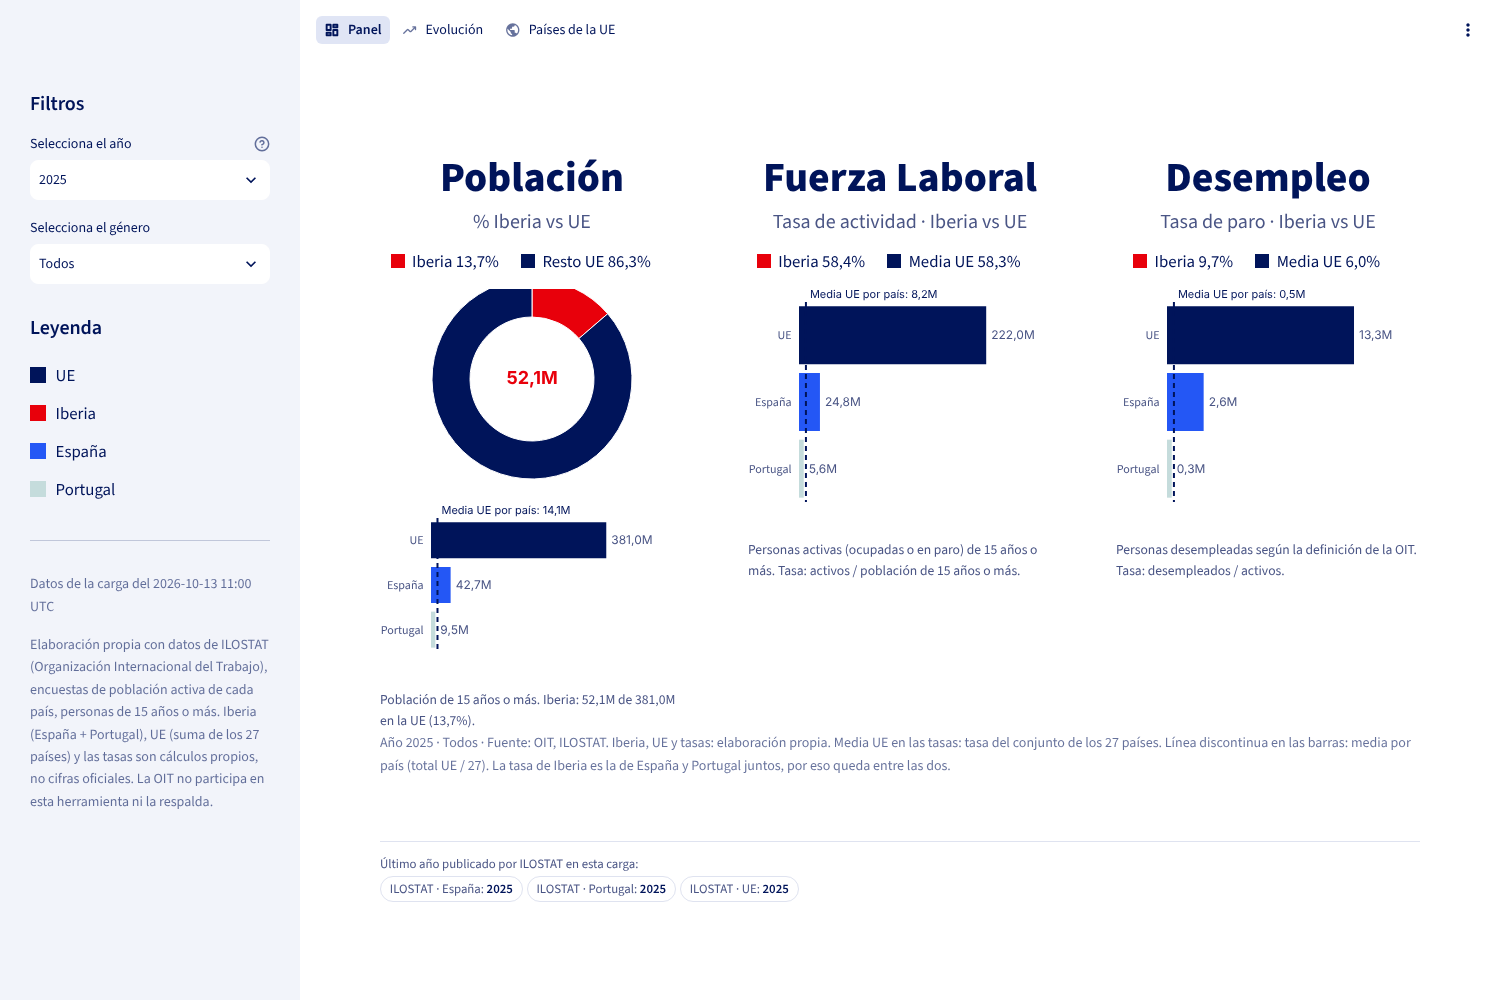
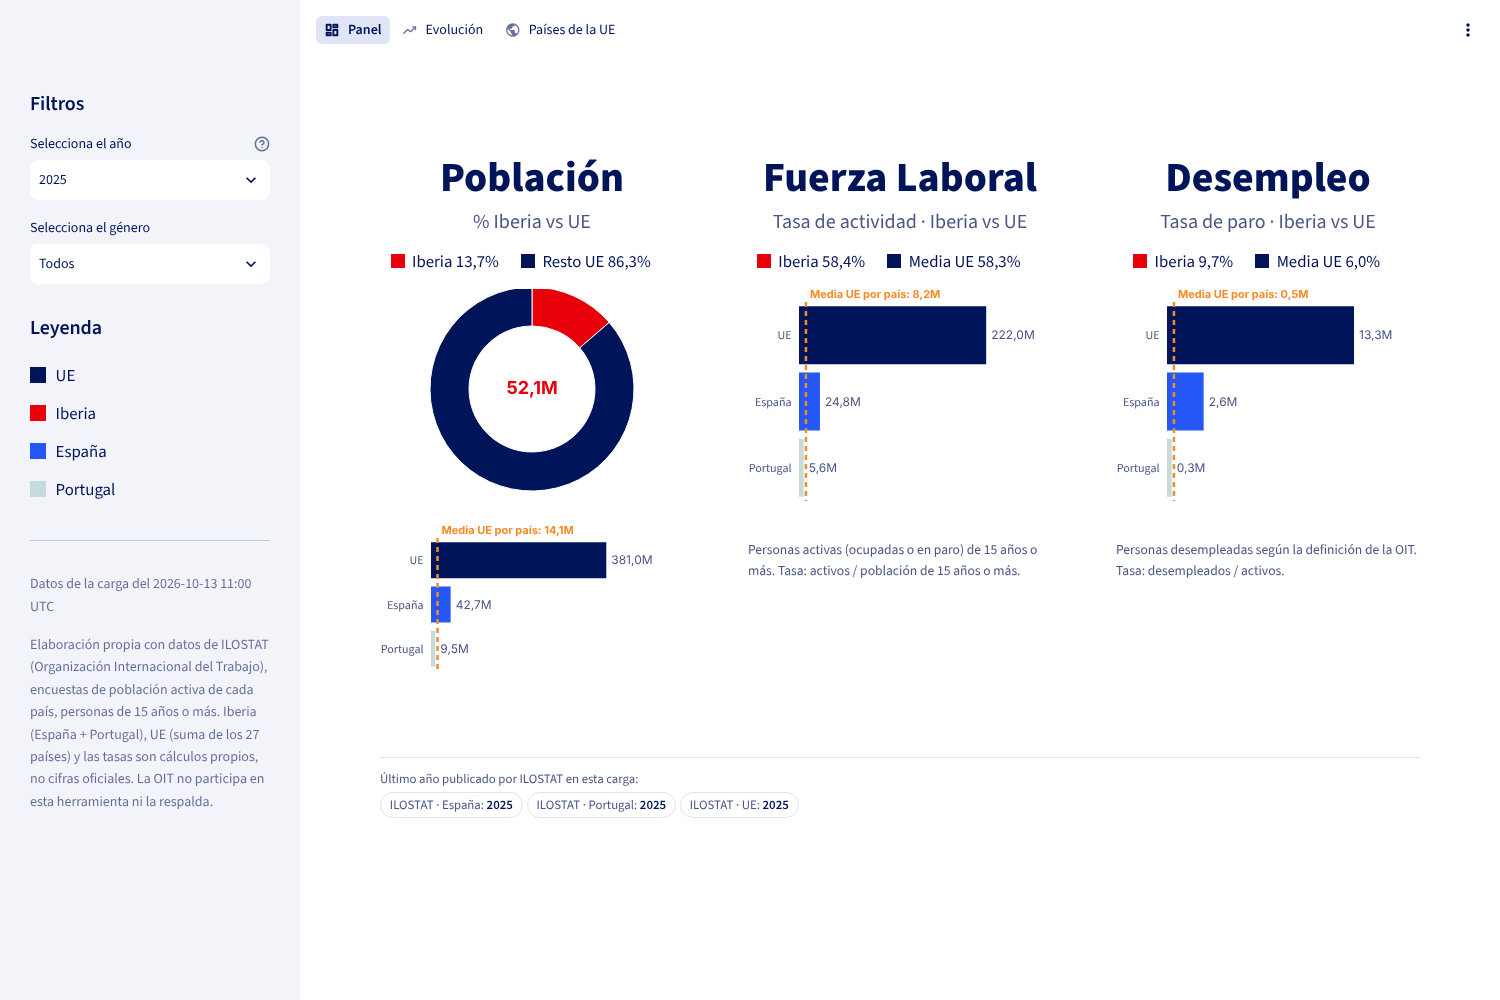
App: medias de la UE en naranja con su valor, dona de población entera, panel sin notas de pie, Evolución desde 2018 con la explicación abajo y nota de Países abajo
Claude-Session: https://claude.ai/code/session_017JAXTdnK31SFbhrbdEadFB

diff --git a/streamlit_app/graficos.py b/streamlit_app/graficos.py
@@ -10,6 +10,7 @@ import streamlit as st
 
 TEXTO, TEXTO_SUAVE = "#00145A", "#4a5585"
 COLOR = {"UE27": "#00145A", "IBERIA": "#E8000B", "ESP": "#2457F5", "PRT": "#C5DCDC"}
+MEDIA = "#F28C28"  # líneas de media de la UE: naranja, distinto de los colores de las áreas
 RESTO = "#E3E6EE"  # resto de países: más claro que Portugal para no confundirlos
 NOMBRE = {"UE27": "UE", "IBERIA": "Iberia", "ESP": "España", "PRT": "Portugal"}
 LOCALE = {"number": {"decimal": ",", "thousands": ".", "grouping": [3], "currency": ["", " €"]}}
@@ -63,7 +64,8 @@ def dona(partes, alto=234, centro=None):
         return
     d["pct"] = 100 * d.valor / d.valor.sum()
     d["orden"] = range(len(d))
-    ch = alt.Chart(d).mark_arc(innerRadius=62, outerRadius=100, stroke="#ffffff", strokeWidth=1).encode(
+    radio = alto // 2 - 8  # la dona cabe entera en la altura del gráfico
+    ch = alt.Chart(d).mark_arc(innerRadius=int(radio * 0.62), outerRadius=radio, stroke="#ffffff", strokeWidth=1).encode(
         theta=alt.Theta("valor:Q", stack=True), order=alt.Order("orden:Q"),
         color=alt.Color("color:N", scale=None),
         tooltip=[alt.Tooltip("parte:N", title=""), alt.Tooltip("pct:Q", format=",.1f", title="%")])
@@ -91,10 +93,10 @@ def barras_areas(d, col, alto_fila=78, media=None):
     t = base.mark_text(align="left", dx=5, fontSize=12, color=TEXTO_SUAVE).encode(text="etiqueta:N")
     capas = b + t
     if media is not None and media == media:
-        m = pd.DataFrame({"v": [media], "t": [f"Media UE por país: {millones(media)}"]})
-        regla = alt.Chart(m).encode(x=alt.X("v:Q"))
-        capas += regla.mark_rule(color=COLOR["UE27"], strokeDash=[5, 4], strokeWidth=2)
-        capas += regla.mark_text(align="left", baseline="bottom", dx=4, dy=-2, y=0, fontSize=11, color=COLOR["UE27"]).encode(text="t:N")
+        m = pd.DataFrame({"media": [media], "t": [f"Media UE por país: {millones(media)}"]})
+        regla = alt.Chart(m).encode(x=alt.X("media:Q", title=None), tooltip=[alt.Tooltip("t:N", title="")])
+        capas += regla.mark_rule(color=MEDIA, strokeDash=[5, 4], strokeWidth=2.5)
+        capas += regla.mark_text(align="left", baseline="bottom", dx=4, dy=-2, y=0, fontSize=11, fontWeight="bold", color=MEDIA).encode(text="t:N")
     mostrar(capas.properties(height=alto_fila * len(d)))
 
 
@@ -129,7 +131,8 @@ def ranking(d, cat, val, color, fmt=",.1f", titulo=None, ref=None, ref_texto="Me
         tooltip=[alt.Tooltip(f"{cat}:N", title=""), alt.Tooltip(f"{val}:Q", format=fmt, title=titulo or val)])
     capas += base.mark_text(align="left", dx=4, fontSize=11, color=TEXTO).encode(text=alt.Text(f"{val}:Q", format=fmt))
     if ref is not None:
-        r = alt.Chart(pd.DataFrame({"v": [ref], "t": [ref_texto]})).encode(x="v:Q")
-        capas += r.mark_rule(color=COLOR["UE27"], strokeDash=[5, 4], strokeWidth=2)
-        capas += r.mark_text(align="left", baseline="bottom", dx=4, y=-4, fontSize=11, fontWeight="bold", color=COLOR["UE27"]).encode(text="t:N")
+        etiqueta = f"{ref_texto}: {es(ref, 1 if fmt.endswith('.1f') else 0)}"
+        r = alt.Chart(pd.DataFrame({"media": [ref], "t": [etiqueta]})).encode(x=alt.X("media:Q", title=None), tooltip=[alt.Tooltip("t:N", title="")])
+        capas += r.mark_rule(color=MEDIA, strokeDash=[5, 4], strokeWidth=2.5)
+        capas += r.mark_text(align="left", baseline="bottom", dx=4, y=-4, fontSize=11, fontWeight="bold", color=MEDIA).encode(text="t:N")
     mostrar(capas.properties(height=22 * len(d)))

diff --git a/streamlit_app/paginas/evolucion.py b/streamlit_app/paginas/evolucion.py
@@ -8,12 +8,10 @@ import relato
 SEXO = {"Todos": "Total", "Hombres": "Hombres", "Mujeres": "Mujeres"}
 genero = st.session_state.get("genero", "Todos")
 st.title("Evolución")
-st.caption(f"{genero} · personas de 15 años o más · la UE solo aparece en los años con datos de los 27 países.")
 NOMBRES = {"UE27": "Media UE", "IBERIA": "Iberia (España + Portugal juntos)"}
-relato.nota("La tasa de Iberia no es la suma de las tasas: es la tasa de España y Portugal tomados como un solo territorio "
-            "(desempleados de los dos / activos de los dos). Por eso siempre queda entre la de Portugal y la de España, "
-            "más cerca de España porque tiene unas cuatro veces más población. Media UE: tasa del conjunto de los 27 países.")
+DESDE = 2018  # las series empiezan en este año
 d = datos.comparativa(SEXO[genero])
+d = d[d.anyo >= DESDE] if not d.empty else d
 if d.empty:
     st.info("Sin datos en esta carga.")
     st.stop()
@@ -48,3 +46,7 @@ else:
         color=alt.Color("medida:N", sort=["Población", "Fuerza laboral", "Desempleados"],
                         scale=alt.Scale(domain=["Población", "Fuerza laboral", "Desempleados"], range=[g.COLOR["UE27"], g.COLOR["ESP"], g.COLOR["IBERIA"]])),
         tooltip=["medida:N", alt.Tooltip("anyo:O", title="Año"), alt.Tooltip("pct:Q", format=",.1f", title="%")]).properties(height=320))
+
+relato.nota("La tasa de Iberia no es la suma de las tasas: es la tasa de España y Portugal tomados como un solo territorio "
+            "(desempleados de los dos / activos de los dos). Por eso siempre queda entre la de Portugal y la de España, "
+            "más cerca de España porque tiene unas cuatro veces más población. Media UE: tasa del conjunto de los 27 países.")

diff --git a/streamlit_app/paginas/panel.py b/streamlit_app/paginas/panel.py
@@ -25,10 +25,8 @@ with c[0]:
     g.leyenda([(g.COLOR["IBERIA"], f"Iberia {pct(cuota)}"), (g.COLOR["UE27"], f"Resto UE {pct(100 - cuota) if cuota is not None else '–'}")])
     g.dona([("Iberia", fila("IBERIA", "poblacion"), g.COLOR["IBERIA"]),
             ("Resto de la UE", (fila("UE27", "poblacion") or 0) - (fila("IBERIA", "poblacion") or 0), g.COLOR["UE27"])],
-           alto=200, centro=g.millones(fila("IBERIA", "poblacion")))
+           alto=220, centro=g.millones(fila("IBERIA", "poblacion")))
     g.barras_areas(barras, "poblacion", alto_fila=56, media=media("poblacion"))
-    relato.nota(f"Población de 15 años o más. Iberia: {g.millones(fila('IBERIA', 'poblacion'))} de "
-                f"{g.millones(fila('UE27', 'poblacion'))} en la UE ({pct(cuota)}).")
 with c[1]:
     relato.titulo("Fuerza Laboral", "Tasa de actividad · Iberia vs UE")
     g.leyenda([(g.COLOR["IBERIA"], f"Iberia {pct(fila('IBERIA', 'tasa_actividad'))}"), (g.COLOR["UE27"], f"Media UE {pct(fila('UE27', 'tasa_actividad'))}")])
@@ -39,7 +37,3 @@ with c[2]:
     g.leyenda([(g.COLOR["IBERIA"], f"Iberia {pct(fila('IBERIA', 'tasa_paro'))}"), (g.COLOR["UE27"], f"Media UE {pct(fila('UE27', 'tasa_paro'))}")])
     g.barras_areas(barras, "desempleados", media=media("desempleados"))
     relato.nota("Personas desempleadas según la definición de la OIT. Tasa: desempleados / activos.")
-
-st.caption(f"Año {anyo} · {st.session_state.get('genero', 'Todos')} · Fuente: OIT, ILOSTAT. Iberia, UE y tasas: elaboración propia. "
-           "Media UE en las tasas: tasa del conjunto de los 27 países. Línea discontinua en las barras: media por país (total UE / 27). "
-           "La tasa de Iberia es la de España y Portugal juntos, por eso queda entre las dos.")

diff --git a/streamlit_app/paginas/paises.py b/streamlit_app/paginas/paises.py
@@ -11,8 +11,6 @@ MEDIDAS = {"Tasa de paro (%)": "tasa_paro", "Tasa de actividad (%)": "tasa_activ
            "Desempleados (miles)": "desempleados", "Fuerza laboral (miles)": "fuerza_laboral", "Población 15+ (miles)": "poblacion"}
 medida = st.radio("Indicador", list(MEDIDAS), horizontal=True)
 col = MEDIDAS[medida]
-st.caption(f"Año {anyo} · {genero} · línea discontinua: media de la UE (en las tasas, la del conjunto de los 27; "
-           "en personas, el total de la UE entre 27 países).")
 d = datos.q("SELECT m.*, a.tipo FROM mart_comparativa m JOIN dim_area a USING (area_id) WHERE m.anyo = ? AND m.sexo = ?",
             [anyo, SEXO[genero]]) if anyo else None
 if d is None or d.empty:
@@ -25,3 +23,5 @@ tasa = col.startswith("tasa")
 ref = None if ue.empty else (ue.iloc[0] if tasa else ue.iloc[0] / 27)
 g.ranking(paises, "area", col, "color", fmt=",.1f" if tasa else ",.0f", titulo=medida, ref=ref,
           ref_texto="Media UE" if tasa else "Media UE por país")
+st.caption(f"Año {anyo} · {genero} · línea discontinua: media de la UE (en las tasas, la del conjunto de los 27; "
+           "en personas, el total de la UE entre 27 países).")
